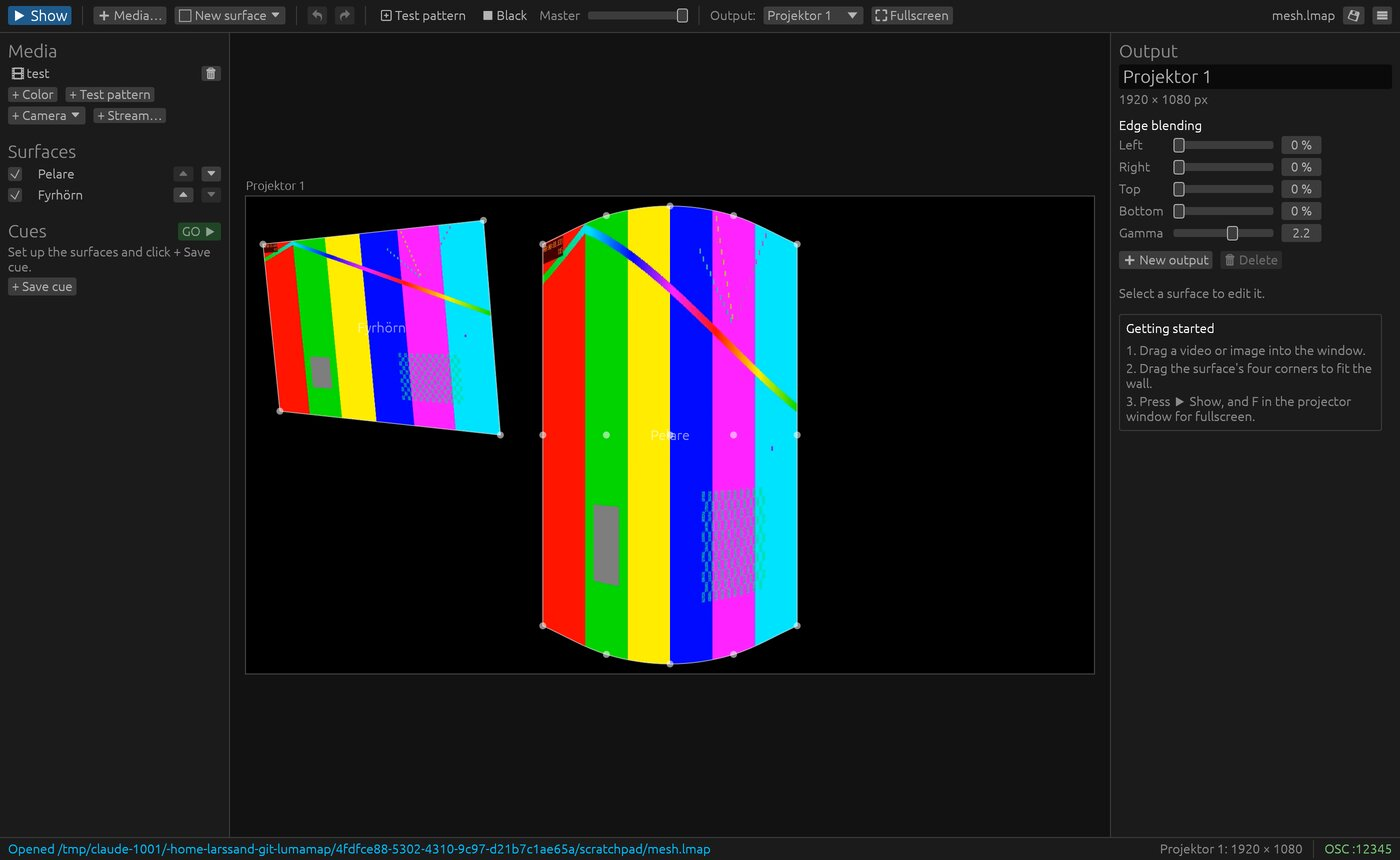
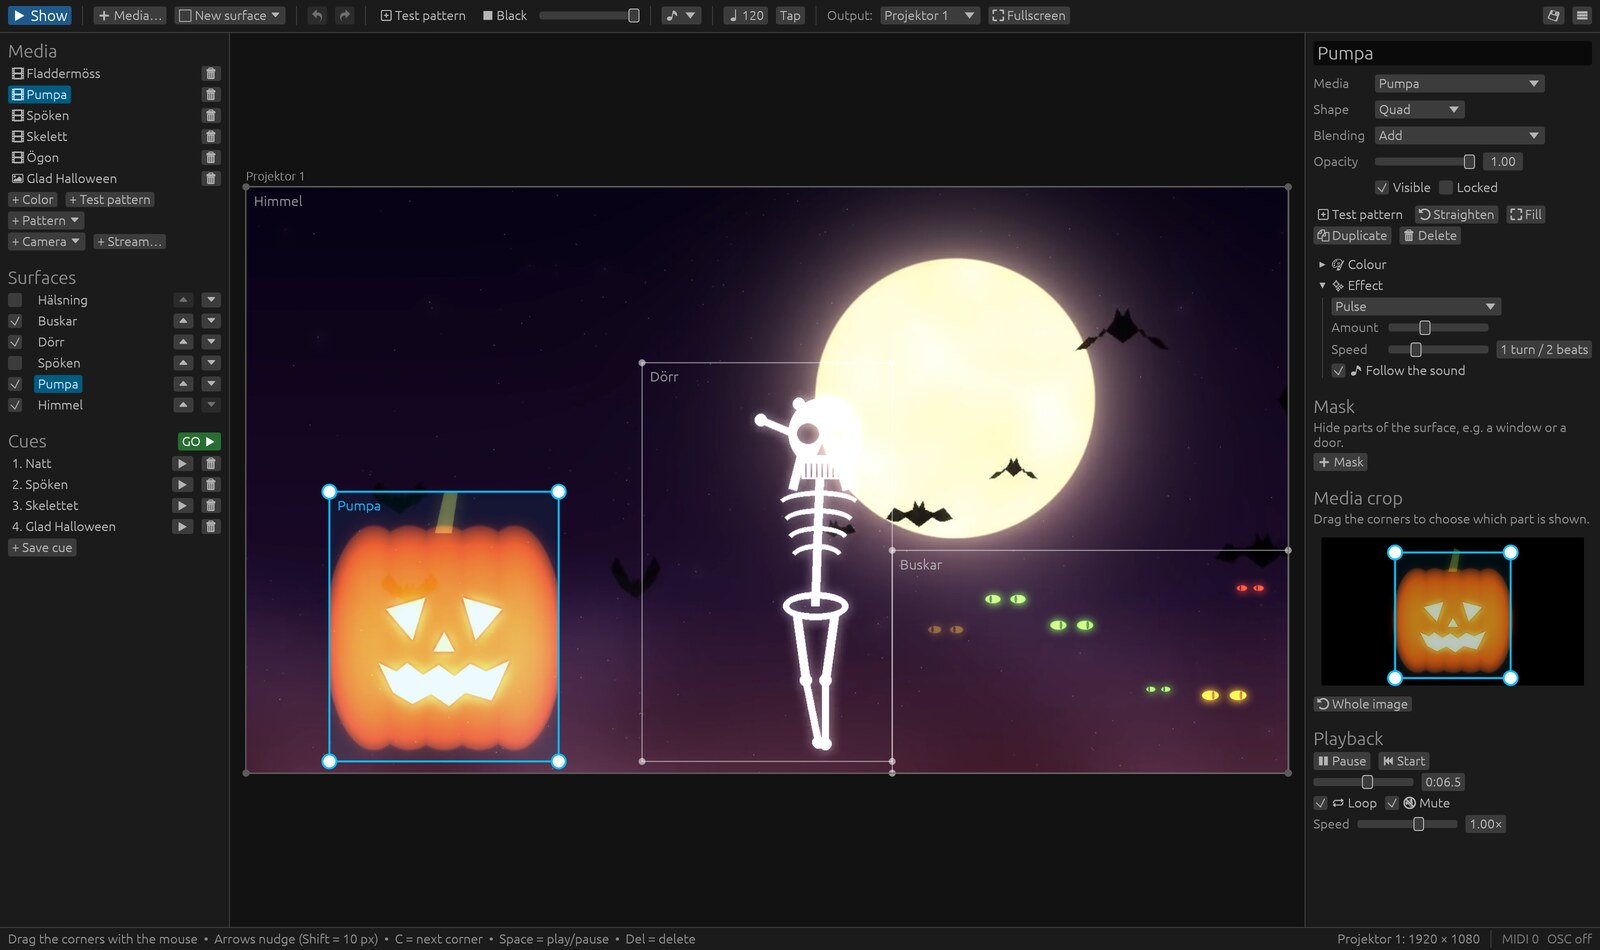
Nya bilder och uppdaterad README
- docs/hero.jpg: fyra exempelshower fångade från projektorfönstret
- docs/demo.gif: animerad mosaik av åtta exempelvideor
- docs/examples.jpg: kontaktark med alla 21 videor
- docs/screenshot.jpg: ny editorbild med effekt-, färg- och maskpanel
- README: grupperade funktioner, editorrundtur, effekter och musik,
  exempelprojekt i tabell, uppdaterad crate-tabell och svensk sammanfattning
- Ytors namn uppe till vänster (inga staplade namn), dolda ytor utan namn
- Statusradens hjälptext kortas av i smala fönster
- halloween.lmap: bredare dörr så att skelettet får rätt proportioner
- AppStream pekar på de nya bilderna

diff --git a/crates/lm-app/src/canvas.rs b/crates/lm-app/src/canvas.rs
@@ -308,6 +308,7 @@ impl LumaApp {
                 dash(egui::pos2(rect.min.x, y1), egui::pos2(rect.max.x, y1));
             }
         }
+        let mut labels: Vec<Rect> = Vec::new();
         for id in self.canvas_surfaces(kind) {
             let Some(s) = self.project.surface(id) else { continue };
             let pts: Vec<Pos2> = self.points(id, kind).unwrap_or_default().iter().map(|p| v.pt(*p)).collect();
@@ -358,18 +359,20 @@ impl LumaApp {
                     painter.add(egui::Shape::line(line, thin));
                 }
             }
-            painter.add(egui::Shape::closed_line(outline, Stroke::new(if selected { 2.0 } else { 1.0 }, color)));
+            painter.add(egui::Shape::closed_line(outline.clone(), Stroke::new(if selected { 2.0 } else { 1.0 }, color)));
 
-            if matches!(kind, PtKind::Dst(_)) {
-                let c = lm_geom::centroid(self.points(id, kind).unwrap_or_default());
-                let label = if s.source.is_none() { format!("{}\n({})", s.name, t("ingen media", "no media")) } else { s.name.clone() };
-                painter.text(
-                    v.pt(c),
-                    egui::Align2::CENTER_CENTER,
-                    label,
-                    egui::FontId::proportional(14.0),
-                    color,
-                );
+            // Namnet uppe till vänster i ytan (dolda ytor får bara konturen).
+            // Namn som skulle hamna på varandra flyttas ned en rad.
+            if matches!(kind, PtKind::Dst(_)) && (s.visible || selected) {
+                let label = if s.source.is_none() { format!("{} ({})", s.name, t("ingen media", "no media")) } else { s.name.clone() };
+                let galley = painter.layout_no_wrap(label, egui::FontId::proportional(14.0), color);
+                let min = outline.iter().fold(egui::pos2(f32::MAX, f32::MAX), |m, p| m.min(*p));
+                let mut at = (min + egui::vec2(8.0, 6.0)).max(rect.min + egui::vec2(4.0, 4.0));
+                while labels.iter().any(|r: &Rect| r.intersects(Rect::from_min_size(at, galley.size()))) {
+                    at.y += galley.size().y + 2.0;
+                }
+                labels.push(Rect::from_min_size(at, galley.size()));
+                painter.galley(at, galley, color);
             }
 
             for (i, p) in pts.iter().enumerate() {

diff --git a/crates/lm-app/src/panels.rs b/crates/lm-app/src/panels.rs
@@ -244,13 +244,16 @@ impl LumaApp {
                 .as_ref()
                 .filter(|(_, t)| t.elapsed() < Duration::from_secs(6))
                 .map(|(m, _)| m.clone());
-            match msg {
-                Some(m) => ui.label(RichText::new(m).color(ACCENT)),
-                None => ui.label(
-                    RichText::new(t("Dra hörnen med musen  •  Pilar finjusterar (Shift = 10 px)  •  C = nästa hörn  •  Mellanslag = spela/pausa  •  Del = ta bort", "Drag the corners with the mouse  •  Arrows nudge (Shift = 10 px)  •  C = next corner  •  Space = play/pause  •  Del = delete"))
-                        .color(Color32::from_gray(140)),
-                ),
+            let text = match msg {
+                Some(m) => RichText::new(m).color(ACCENT),
+                None => RichText::new(t("Dra hörnen med musen  •  Pilar finjusterar (Shift = 10 px)  •  C = nästa hörn  •  Mellanslag = spela/pausa  •  Del = ta bort", "Drag the corners with the mouse  •  Arrows nudge (Shift = 10 px)  •  C = next corner  •  Space = play/pause  •  Del = delete"))
+                    .color(Color32::from_gray(140)),
             };
+            // Lämna plats åt statusen till höger; kortas av med "…" i smala fönster.
+            let width = (ui.available_width() - 360.0).max(80.0);
+            ui.allocate_ui(egui::vec2(width, ui.available_height()), |ui| {
+                ui.add(egui::Label::new(text).truncate());
+            });
             ui.with_layout(egui::Layout::right_to_left(egui::Align::Center), |ui| {
                 let (text, color) = match (&self.osc, &self.osc_error) {
                     (Some(s), _) => (format!("OSC :{}", s.port()), Color32::from_rgb(120, 200, 120)),

diff --git a/README.md b/README.md
@@ -1,46 +1,59 @@
 # LumaMap
 
 Projection mapping for Linux. Put video on any surface – a wall, a pillar, a
-gable – by dragging its corners until it fits. In the spirit of
-[MapMap](https://mapmap.info) (simple and visual) and
+gable, a whole house – by dragging its corners until it fits. In the spirit
+of [MapMap](https://mapmap.info) (simple and visual) and
 [Splash](https://sat-mtl.gitlab.io/documentation/splash/) (several projectors
 with edge blending).
 
 The goal: *map a video onto a wall in two minutes without reading a manual.*
 
-![Example show: fire on a triangle, space on a curved pillar, aurora in an ellipse and a masked plasma window over a neon floor](docs/showcase.jpg)
+![Four example shows: effects on a triangle, pillar and ellipse; Christmas lights, snow and a greeting; Halloween with a pumpkin, a dancing skeleton and bats; a brick façade bursting open around two windows](docs/hero.jpg)
 
-> **Status:** early development (v0.3). Usable for experiments and small
-> shows, but expect rough edges. Developed on Linux Mint (Ubuntu 24.04 base).
+<sub>The example projects in `examples/` – `showcase`, `christmas`, `halloween` and `facade` – exactly as the projector shows them.</sub>
+
+> **Status:** young but complete. Used for experiments and small shows;
+> developed and tested on Linux Mint (Ubuntu 24.04 base) with one projector
+> at a time. Reports from bigger setups are very welcome.
 
 ## Features
 
-- **What you see is what the projector shows.** The editor preview and the
+**Mapping**
+- **What you see is what the projector shows** – the editor preview and the
   projector windows render the same image, live.
 - **Surfaces:** quad (perspective-correct, no diagonal seam), triangle,
-  ellipse and curved mesh (smooth spline through a grid of points).
-- **Sources:** video files, images, webcams (V4L2), network streams
-  (RTSP, SRT, UDP, HTTP, … via GStreamer), solid colours, a test pattern and
-  live patterns drawn on the GPU (gradient, stripes, plasma, tunnel, clouds,
-  rings) – no video files needed.
-  Each source is decoded once, however many surfaces show it.
-- **Crop** any part of the source onto a surface.
-- **Masks** with soft edges – hide a window or a door, or show only inside a
-  shape. Masks stay put on the wall when you adjust the surface.
-- **Blend modes:** normal, add, multiply, screen.
+  ellipse and curved mesh for pillars and arches.
+- **Masks** with soft edges – cut out a window or a door. Masks stay put on
+  the wall when you adjust the surface.
+- **Align with a webcam:** the projector shows a few dots, the camera finds
+  them, and you click the wall's corners in the camera picture.
+- **Several projectors** with keystone, **edge blending** and black-level
+  compensation where they overlap.
+
+**Content**
+- Video files, images, webcams, network streams (RTSP, SRT, UDP, HTTP),
+  solid colours and **live patterns** drawn on the GPU – no video needed.
+- **21 ready-made loops** to use freely – space, fire, aurora, Christmas,
+  Halloween, a collapsing brick façade and more (see [Examples](#examples)).
 - **Effects on any surface:** edge glow that follows the surface's shape,
-  kaleidoscope, tiles, scroll, rotate, pulse, colour cycle, strobe, blur and
-  invert – all in time with a global tempo you can tap in.
-- **Sound-reactive:** pick 🎵 Microphone or Computer audio in the toolbar and
-  effects can follow the bass; the tempo is picked up from the music.
-- **Several projectors**, each in its own window, with **edge blending** where
-  they overlap.
-- **Cues** with fades – store which surfaces are visible, how bright and with
-  which media, and step through them during a show.
-- **OSC and MIDI remote control** (TouchOSC, QLab, Ableton, USB controllers, …)
-  and **DMX lights over Art-Net** that follow the cues.
+  kaleidoscope, tiles, scroll, rotate, pulse, colour cycle, strobe, blur,
+  invert – in time with a tempo you tap in.
+- **Sound-reactive:** effects can follow the bass from a microphone or from
+  what the computer plays; the tempo is picked up from the music.
+- Crop, blend modes (normal, add, multiply, screen) and colour correction
+  per surface.
+
+**Show control**
+- **Cues** with fades: store which surfaces are visible, how bright and with
+  which media, and step through them with **Enter**.
+- **OSC** (TouchOSC, QLab, …), **MIDI** controllers with learn, and **DMX
+  lights over Art-Net** that fade with the cues – a lamp can even take its
+  colour from a video.
 - **Undo everything**, autosave every 30 s and crash recovery.
+- `--play` starts a show in fullscreen, e.g. from autostart.
 - English and Swedish user interface.
+
+![Animated preview of eight example videos](docs/demo.gif)
 
 ## Install
 
@@ -65,7 +78,8 @@ flatpak run io.github.dio99.LumaMap
 ```
 
 After changing dependencies, regenerate the offline crate list with
-`python3 packaging/flatpak/cargo-sources.py`.
+`python3 packaging/flatpak/cargo-sources.py`. Rebuild the Flatpak after code
+changes – it is built from the repository and does not update itself.
 
 ### From source
 
@@ -96,34 +110,37 @@ The binary ends up in `target/release/lumamap`.
 3. Drag the projector window onto the projector and press **F** for fullscreen.
 4. Press **▶ Show** (or **Tab**) to hide the handles.
 
-Use **⊞ Test pattern** while aligning. With a webcam you can let LumaMap do
-the aligning: select the output and click **📷 Align with camera…**. The
-projector shows nine dots that the camera finds; then click the wall's four
-corners in the camera picture and the surface lands exactly there. Save with **Ctrl+S**; projects are
-`.lmap` files with media paths relative to the project file. To move a show
-to another computer, use ☰ → **Collect project…**: it copies the project and
-every media file it uses into one folder.
+Use **⊞ Test pattern** while aligning. Save with **Ctrl+S**: projects are
+`.lmap` files with media paths relative to the project file.
 
-To start a show directly, for example from autostart:
+![The editor: media, surfaces and cues on the left, the projector preview in the middle, the selected surface's settings – shape, blending, colour, effect, mask, crop and playback – on the right](docs/screenshot.jpg)
+
+**The editor** has the media, surfaces and cues on the left, the live
+projector preview in the middle, and everything about the selected surface
+on the right: shape, blending, colour, effect, mask, the crop of the media
+and playback. With no surface selected, the right side shows the projector
+output instead: keystone, edge blending and **📷 Align with camera…**.
+
+**Aligning with a webcam:** point the camera at the wall, click **📷 Align
+with camera…** and **Start**. The projector shows nine dots one at a time
+(about ten seconds); then click the wall's four corners in the camera picture
+and the surface lands exactly there. Works best in a darkish room.
+
+**Moving a show to another computer:** ☰ → **Collect project…** copies the
+project and every media file it uses into one folder.
+
+**Starting a show automatically**, e.g. at boot in an installation:
 
 ```bash
 lumamap --play show.lmap
 ```
 
-This opens the project in Show mode with every projector in fullscreen.
-
 ## Examples
 
-Open `examples/showcase.lmap` to see every surface type at once: fire on a
-triangle, space on a curved mesh pillar, aurora in an ellipse and a plasma
-"window" with a mask and screen blending, over a neon floor. It has four cues;
-press **Enter** to step through them.
+![All 21 example videos](docs/examples.jpg)
 
-`examples/gallery.lmap` shows each example video full screen, one cue per
-video – press **Enter** to flip through them on your projector.
-
-`examples/media/` contains seamless 12-second loops (1280×720) that you are
-free to use in your own shows:
+`examples/media/` holds seamless 12-second loops (1280×720) that you are free
+to use in your own shows:
 
 | Video | |
 |---|---|
@@ -135,7 +152,7 @@ free to use in your own shows:
 | `water.mp4` | Light rippling on the bottom of a pool, with drops landing |
 | `rain.mp4` | Raindrops on a window in front of blurred city lights |
 | `matrix.mp4` | Falling green "Matrix" characters |
-| `lightgrid.mp4` | Glowing window frames with light pulses – made for building facades |
+| `lightgrid.mp4` | Glowing window frames with light pulses – made for building façades |
 | `galaxy.mp4` | A rotating spiral galaxy |
 | **Christmas** | |
 | `snow.mp4` | Snow falling in three layers |
@@ -155,24 +172,28 @@ free to use in your own shows:
 There are also greeting cards: `god-jul.jpg`, `merry-christmas.jpg`,
 `glad-halloween.jpg` and `happy-halloween.jpg`.
 
-Ready-made projects show how to combine them: `examples/christmas.lmap`,
-`examples/halloween.lmap` and `examples/facade.lmap` (step through the cues
-with **Enter**).
+**Ready-made projects** (step through the cues with **Enter**):
+
+| Project | |
+|---|---|
+| `examples/showcase.lmap` | Every surface type at once: fire on a triangle, space on a curved pillar, aurora in an ellipse, a masked plasma window, a neon floor |
+| `examples/christmas.lmap` | Snow on the façade, lights along the eaves, Santa, a "God Jul" greeting with glitter |
+| `examples/halloween.lmap` | Bats and the moon, a pumpkin on the steps, ghosts, a skeleton in the door, eyes in the bushes |
+| `examples/facade.lmap` | The brick wall illusion over the whole house, with the silhouette film in two windows |
+| `examples/gallery.lmap` | Every example video full screen, one cue each |
 
 **Tip:** videos on a black background – lights, eyes, ghosts, the skeleton,
 the pumpkin – look best with the blend mode **Add**. Black then becomes
 transparent and only the light is projected.
 
-They are generated from code, so there are no licensing questions and you
-can change them. Edit `examples/media/generate.py` and run it (needs numpy
-and ffmpeg; Pillow for Matrix, the seasonal videos and the cards):
+The videos are generated from code, so there are no licensing questions and
+you can change them. Edit `examples/media/generate.py` and run it (needs
+numpy and ffmpeg; Pillow for Matrix, the seasonal videos and the cards):
 
 ```bash
-python3 examples/media/generate.py            # all videos
+python3 examples/media/generate.py            # everything
 python3 examples/media/generate.py fire neon  # just some
 ```
-
-![The editor](docs/screenshot.jpg)
 
 ## Keyboard
 
@@ -189,6 +210,18 @@ python3 examples/media/generate.py fire neon  # just some
 | B | Black out |
 | Ctrl+Z / Ctrl+Shift+Z | Undo / redo |
 | Ctrl+N / Ctrl+O / Ctrl+S / Ctrl+Shift+S | New / open / save / save as |
+
+## Effects and music
+
+Pick an **Effect** for a surface in its settings and set **Amount** and
+**Speed**. Speed is counted in beats of the tempo shown in the toolbar
+(♩ 120) – press **Tap** in time with the music to set it.
+
+To make effects follow the music, choose 🎵 **Microphone** or **Computer
+audio** in the toolbar and tick **Follow the sound** on the effect. The bass
+then drives the effect, and the tempo is picked up from the beat (shown as
+🎵 next to the tempo). *Computer audio* listens to whatever the computer
+plays, so music from any player works without cables.
 
 ## OSC remote control
 
@@ -243,16 +276,17 @@ choice is remembered in `~/.config/lumamap/language`.
 
 ## Troubleshooting
 
-Check a camera or stream without the editor:
+Check a camera, stream, video file or sound input without the editor:
 
 ```bash
 cargo run -p lm-media --example probe -- cameras
 cargo run -p lm-media --example probe -- camera /dev/video0
 cargo run -p lm-media --example probe -- stream rtsp://camera.local/stream
+cargo run -p lm-media --example probe -- audio computer
 ```
 
-It prints when the first frame arrives and the frame rate. More detail:
-`RUST_LOG=info lumamap`.
+It prints when the first frame arrives and the frame rate (or the sound
+levels). More detail: `RUST_LOG=info lumamap`.
 
 Video is uploaded as YUV straight from the decoder and converted to RGB on
 the GPU. If colours ever look wrong with a particular video, compare with
@@ -261,23 +295,25 @@ the slower CPU conversion: `LUMAMAP_VIDEO_FORMAT=rgba lumamap`.
 ## Development
 
 ```bash
-cargo test           # model, geometry, cues, OSC and shader validation
+cargo test           # model, geometry, cues, MIDI, OSC, Art-Net, audio analysis, shaders
 cargo clippy --workspace --all-targets
+cargo run --release -p lm-render --example soak -- examples/showcase.lmap 1800
+                     # 30 minutes of playback without a window, printing memory use
 ```
 
 The code is a Cargo workspace:
 
 | Crate | Purpose |
 |---|---|
-| `lm-core` | Project model, commands, undo, cues. No GPU, no video. |
-| `lm-geom` | Homography, mesh splines, hit testing. |
-| `lm-media` | GStreamer sources (file, camera, stream), images, test pattern. |
-| `lm-render` | wgpu rendering, shaders, edge blending. |
-| `lm-control` | OSC server. |
-| `lm-app` | The application: windows, egui editor. |
+| `lm-core` | Project model, commands and undo, cues and fades, MIDI mapping, DMX values, collecting a project. No GPU, no video. |
+| `lm-geom` | Homographies, mesh splines, hit testing, camera calibration. |
+| `lm-media` | GStreamer sources (file, camera, stream), images, sound analysis. |
+| `lm-render` | wgpu rendering and shaders: surfaces, effects, patterns, YUV conversion, edge blending. |
+| `lm-control` | OSC server, raw MIDI input, Art-Net output. |
+| `lm-app` | The application: windows, egui editor, show control. |
 
 [ARCHITECTURE.md](ARCHITECTURE.md) (in Swedish) describes the design and the
-roadmap. Next up: packaging (AppImage/Flatpak), zero-copy video, MIDI.
+roadmap.
 
 ## License
 
@@ -287,8 +323,10 @@ roadmap. Next up: packaging (AppImage/Flatpak), zero-copy video, MIDI.
 
 ## På svenska
 
-LumaMap är videomappning för Linux: lägg video på väggar, pelare och andra
-ytor genom att dra hörnen tills de passar. Det klarar flera projektorer med
-kantblandning, masker, cues med övergångar och fjärrstyrning via OSC.
-Gränssnittet finns på svenska och engelska. Byt språk under ☰ → Language /
-Språk. Installation och användning beskrivs ovan.
+LumaMap är videomappning för Linux: lägg video på väggar, pelare och hela hus
+genom att dra hörnen tills de passar. Det klarar flera projektorer med
+keystone och kantblandning, masker, inriktning med webbkamera, effekter som
+följer musiken, cues med övergångar och styrning via OSC, MIDI och DMX-ljus.
+I `examples/` finns 21 fria videoloopar – bland annat jul och halloween – och
+färdiga exempelprojekt. Gränssnittet finns på svenska och engelska; byt språk
+under ☰ → Language / Språk. Installation och användning beskrivs ovan.

diff --git a/ARCHITECTURE.md b/ARCHITECTURE.md
@@ -103,15 +103,16 @@ Principer:
 lumamap/
 ├── Cargo.toml                 (workspace)
 ├── crates/
-│   ├── lm-core/               Datamodell, Command, Undo, serialisering. Ingen GPU.
-│   ├── lm-geom/               Homografi, mesh-warp, punkt-i-polygon, hit-test.
-│   ├── lm-media/              GStreamer-källor, bild, färg, testmönster.
-│   ├── lm-render/             wgpu-pipeline, shaders, utgångar, edge blend.
-│   ├── lm-control/            OSC-server (MIDI senare).
-│   └── lm-app/                main(): fönster, egui-editor, limmar ihop allt.
+│   ├── lm-core/               Datamodell, Command, Undo, cues, MIDI-kopplingar, DMX, i18n. Ingen GPU.
+│   ├── lm-geom/               Homografi, mesh-splines, hit-test, kamerakalibrering.
+│   ├── lm-media/              GStreamer-källor (fil, kamera, ström), bild, ljudanalys.
+│   ├── lm-render/             wgpu: ytor, effekter, mönster, YUV, edge blend.
+│   ├── lm-control/            OSC-server, rå MIDI, Art-Net.
+│   └── lm-app/                main(): fönster, egui-editor, showstyrning, kalibrering.
 ├── shaders/                   WGSL
-├── assets/                    Ikoner, testbilder
-└── examples/                  Exempelprojekt (.lmap)
+├── packaging/                 .desktop, ikon, AppImage, Flatpak
+├── docs/                      Bilder till README
+└── examples/                  Exempelprojekt (.lmap) och media/ (genererade loopar)
 ```
 
 Beroenderiktning (inga cykler):
@@ -304,7 +305,10 @@ huvudtråden – exakt samma väg som musen.
 
 Utöver planen har också tillkommit: färgjustering per yta, keystone per
 utgång, uppspelningshastighet, svartnivåkompensation, "Samla projekt",
-svenskt och engelskt gränssnitt samt tio procedurgenererade exempelvideor.
+svenskt och engelskt gränssnitt, effekter per yta i takt med ett tap-tempo,
+mönsterkällor som ritas på GPU:n, ljudreaktiva effekter, inriktning med
+webbkamera, DMX-ljus via Art-Net samt 21 procedurgenererade exempelvideor
+(bl.a. jul och halloween) med färdiga exempelprojekt.
 
 **Zero-copy** (DMA-BUF från VA-API/NVDEC direkt in i Vulkan) är flyttad till
 "Senare": wgpu saknar stöd för att importera externt minne, så det kräver
